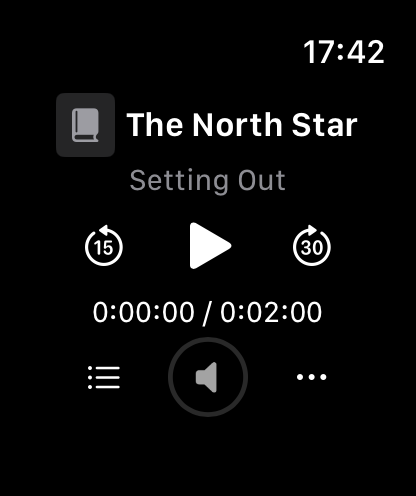
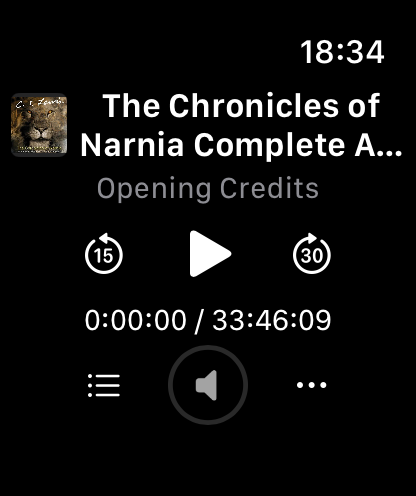
Add gospel About page and Narnia player preview

diff --git a/support/index.html b/support/index.html
@@ -1,3 +1,3 @@
 <!doctype html>
-<html lang="en"><head><meta charset="utf-8"><meta name="viewport" content="width=device-width,initial-scale=1"><title>Support — Wristshelf</title><meta name="description" content="Help with setup, listening, offline downloads and progress in Wristshelf."><link rel="canonical" href="https://wristshelf.fourbees.net/support"><link rel="icon" type="image/png" href="../assets/icon.png"><link rel="stylesheet" href="../assets/site.css"></head>
-<body><a class="skip" href="#content">Skip to content</a><header><a class="brand" href="../"><img src="../assets/icon.png" alt="" width="44" height="44">Wristshelf</a><nav aria-label="Main navigation"><a href="../support/" aria-current="page">Support</a><a href="../privacy/">Privacy</a></nav></header><main id="content"><article class="document"><p class="eyebrow">HERE TO HELP</p><h1>Wristshelf support</h1><p class="lead">Start with the answers below. If you’re still stuck, send a short description and we’ll help you find the next step.</p><div class="contact"><p>Contact support</p><a href="mailto:wristshelf_support@fourbees.net">wristshelf_support@fourbees.net</a><p>Please include your watch model, watchOS and Wristshelf versions, what you expected, and what happened. Never send passwords, tokens, private server addresses or children’s listening details.</p></div><h2>Getting started</h2><details open><summary>What do I need to listen?</summary><p>Apple Watch running watchOS 27 or later, a reachable Audiobookshelf server and your own account on that server. Enter its address, username and password directly on the watch. HTTPS with certificate validation is the default. Your server administrator controls library and download access.</p></details><details><summary>Do I need an iPhone companion app?</summary><p>No. Wristshelf is a standalone watch app. Account setup, library browsing, playback and downloads happen on the watch. Internet access is needed to sign in and acquire audio; already saved audio can play offline.</p></details><details><summary>My server won’t connect.</summary><p>Check the address and your watch’s connection. Confirm that your credentials work with your server and that it is reachable from your current network. If Cloudflare Access protects the server, ask your administrator for its service-authentication setup. Interactive web SSO is not a substitute for the app’s optional service-credential fields.</p></details><h2>Downloads and listening</h2><details><summary>Why does a download say “Waiting for watchOS”?</summary><p>watchOS decides when native background transfers run. A scheduled download may wait for connectivity or system resources. Keep the title queued, check available storage and reconnect. Some Cloudflare policies support only foreground downloads; the app explains when you need to keep Wristshelf open.</p></details><details><summary>How do I pause, resume or remove a download?</summary><p>Open Downloads, select the title and choose Pause Download or Resume Download. Delete Download also removes pending and in-progress work. Saved listening progress is kept. Deleting audio used by the current player stops playback first.</p></details><details><summary>Can I listen offline?</summary><p>Yes, with saved audio. Wait until a download is marked Available offline before relying on the whole title. Streaming-cache portions may also be available, but a partial cache is not a complete offline download.</p></details><details><summary>How do I keep progress across devices?</summary><p>Use the same Audiobookshelf account. Wristshelf saves progress locally and attempts to synchronize when connected. If the watch and server positions conflict, use the app’s explicit position choice. Reconnect before switching devices when possible.</p></details><details><summary>How do I seek without accidental jumps?</summary><p>The main player has skip buttons. Choose Chapters for a chapter jump, or open playback settings to select and confirm a new position. Turn the Digital Crown on the main player to adjust volume.</p></details><details><summary>Does Wristshelf include books or support ebooks?</summary><p>Wristshelf plays audiobooks and podcast episodes from your server. It does not supply content, and this release does not support ebooks.</p></details></article></main><footer><p>Independent software. Your library, your server.</p><p><a href="../support/">Support</a><a href="../privacy/">Privacy</a>© 2026 Christopher Alderman</p></footer></body></html>
+<html lang="en"><head><meta charset="utf-8"><meta name="viewport" content="width=device-width,initial-scale=1"><title>Support — Wristshelf</title><meta name="description" content="Help with setup, listening, offline downloads and progress in Wristshelf."><link rel="canonical" href="https://wristshelf.fourbees.net/support"><link rel="icon" type="image/png" href="../assets/icon.png"><link rel="stylesheet" href="../assets/site.css?v=11"></head>
+<body><a class="skip" href="#content">Skip to content</a><header><a class="brand" href="../"><img src="../assets/icon.png" alt="" width="44" height="44">Wristshelf</a><nav aria-label="Main navigation"><a href="../about/">About</a><a href="../support/" aria-current="page">Support</a><a href="../privacy/">Privacy</a></nav></header><main id="content"><article class="document"><p class="eyebrow">HERE TO HELP</p><h1>Wristshelf support</h1><p class="lead">Start with the answers below. If you’re still stuck, send a short description and we’ll help you find the next step.</p><div class="contact"><p>Contact support</p><a href="mailto:wristshelf_support@fourbees.net">wristshelf_support@fourbees.net</a><p>Please include your watch model, watchOS and Wristshelf versions, what you expected, and what happened. Never send passwords, tokens, private server addresses or children’s listening details.</p></div><h2>Getting started</h2><details open><summary>What do I need to listen?</summary><p>Apple Watch running watchOS 27 or later, a reachable Audiobookshelf server and your own account on that server. Enter its address, username and password directly on the watch. HTTPS with certificate validation is the default. Your server administrator controls library and download access.</p></details><details><summary>Do I need an iPhone companion app?</summary><p>No. Wristshelf is a standalone watch app. Account setup, library browsing, playback and downloads happen on the watch. Internet access is needed to sign in and acquire audio; already saved audio can play offline.</p></details><details><summary>My server won’t connect.</summary><p>Check the address and your watch’s connection. Confirm that your credentials work with your server and that it is reachable from your current network. If Cloudflare Access protects the server, ask your administrator for its service-authentication setup. Interactive web SSO is not a substitute for the app’s optional service-credential fields.</p></details><h2>Downloads and listening</h2><details><summary>Why does a download say “Waiting for watchOS”?</summary><p>watchOS decides when native background transfers run. A scheduled download may wait for connectivity or system resources. Keep the title queued, check available storage and reconnect. Some Cloudflare policies support only foreground downloads; the app explains when you need to keep Wristshelf open.</p></details><details><summary>How do I pause, resume or remove a download?</summary><p>Open Downloads, select the title and choose Pause Download or Resume Download. Delete Download also removes pending and in-progress work. Saved listening progress is kept. Deleting audio used by the current player stops playback first.</p></details><details><summary>Can I listen offline?</summary><p>Yes, with saved audio. Wait until a download is marked Available offline before relying on the whole title. Streaming-cache portions may also be available, but a partial cache is not a complete offline download.</p></details><details><summary>How do I keep progress across devices?</summary><p>Use the same Audiobookshelf account. Wristshelf saves progress locally and attempts to synchronize when connected. If the watch and server positions conflict, use the app’s explicit position choice. Reconnect before switching devices when possible.</p></details><details><summary>How do I seek without accidental jumps?</summary><p>The main player has skip buttons. Choose Chapters for a chapter jump, or open playback settings to select and confirm a new position. Turn the Digital Crown on the main player to adjust volume.</p></details><details><summary>Does Wristshelf include books or support ebooks?</summary><p>Wristshelf plays audiobooks and podcast episodes from your server. It does not supply content, and this release does not support ebooks.</p></details></article></main><footer><p>Independent software. Your library, your server.</p><p><a href="../about/">About</a><a href="../support/">Support</a><a href="../privacy/">Privacy</a>© 2026 Christopher Alderman</p></footer></body></html>

diff --git a/privacy/index.html b/privacy/index.html
@@ -1,3 +1,3 @@
 <!doctype html>
-<html lang="en"><head><meta charset="utf-8"><meta name="viewport" content="width=device-width,initial-scale=1"><title>Privacy — Wristshelf</title><meta name="description" content="How Wristshelf handles your server connection, credentials, audio and listening progress."><link rel="canonical" href="https://wristshelf.fourbees.net/privacy"><link rel="icon" type="image/png" href="../assets/icon.png"><link rel="stylesheet" href="../assets/site.css"></head>
-<body><a class="skip" href="#content">Skip to content</a><header><a class="brand" href="../"><img src="../assets/icon.png" alt="" width="44" height="44">Wristshelf</a><nav aria-label="Main navigation"><a href="../support/">Support</a><a href="../privacy/" aria-current="page">Privacy</a></nav></header><main id="content"><article class="document"><p class="eyebrow">LAST UPDATED SEPTEMBER 22, 2026</p><h1>Your library.<br>Your privacy.</h1><p>Wristshelf connects directly to the Audiobookshelf server you configure. It has no developer-operated account service, advertising, analytics or tracking SDKs.</p><h2>Connections and credentials</h2><p>Your server receives sign-in requests, media requests and listening progress. If you enable Cloudflare Access service authentication, the configured service credentials accompany requests to that origin. The server operator and any access provider control their own logs and retention. Ask your server administrator about their privacy practices.</p><p>Access and refresh tokens and optional Cloudflare credentials are stored in the watch&#x27;s Keychain. For compatible background downloads, watchOS also manages the authenticated transfer request and a scoped Cloudflare cookie when needed. Custom Cloudflare service credentials are confined to the app&#x27;s guarded foreground requests; they are not sent as native background headers. Password input is cleared after sign-in. The server address, account identity, library metadata, cover art, saved audio and listening history are stored in the app&#x27;s local account directory. They are not sent to a Wristshelf-operated service.</p><p>HTTPS and certificate validation are the defaults. Choosing HTTP transmits requests without transport encryption. The optional certificate exception disables server-identity validation for the configured origin.</p><h2>Listening and storage</h2><p>Playback checkpoints and listening totals are sent to your configured server to support resume across devices. Offline changes remain locally until synchronization can be attempted. Download and streaming-cache data remain on the watch. Storage capacity is displayed locally and is not uploaded.</p><p>Deleting a download removes its saved audio and keeps listening progress. Confirmed sign-out removes that account&#x27;s local content and saved credentials, including any unsent progress after the warning shown in the app. It does not delete the Audiobookshelf account or progress already stored on the server.</p><h2>Children and curated libraries</h2><p>The app uses the signed-in Audiobookshelf user&#x27;s permissions. A parent or administrator manages access on that server. Offline devices cannot discover new permission changes until they reconnect and receive authoritative catalog data.</p><h2>Support</h2><p>Do not include passwords, tokens, private server addresses or children&#x27;s listening details in public bug reports. Submit a sanitized issue through the repository where you obtained Wristshelf. Operating-system diagnostics and distribution services are governed separately by their providers.</p><p>This policy describes the source version in this repository. Distributors modifying the app or adding services must update its policy and disclosures.</p><h2>This website and support email</h2><p>This static website has no analytics, advertising, tracking scripts or cookies set by Wristshelf. The hosting provider may process ordinary request information, such as IP addresses, to deliver the site and operate its service. Sending an email shares your email address and message with support and its email provider. Send only the information needed to resolve your issue.</p><p>For privacy questions, contact <a href="mailto:wristshelf_support@fourbees.net">wristshelf_support@fourbees.net</a>.</p></article></main><footer><p>Independent software. Your library, your server.</p><p><a href="../support/">Support</a><a href="../privacy/">Privacy</a>© 2026 Christopher Alderman</p></footer></body></html>
+<html lang="en"><head><meta charset="utf-8"><meta name="viewport" content="width=device-width,initial-scale=1"><title>Privacy — Wristshelf</title><meta name="description" content="How Wristshelf handles your server connection, credentials, audio and listening progress."><link rel="canonical" href="https://wristshelf.fourbees.net/privacy"><link rel="icon" type="image/png" href="../assets/icon.png"><link rel="stylesheet" href="../assets/site.css?v=11"></head>
+<body><a class="skip" href="#content">Skip to content</a><header><a class="brand" href="../"><img src="../assets/icon.png" alt="" width="44" height="44">Wristshelf</a><nav aria-label="Main navigation"><a href="../about/">About</a><a href="../support/">Support</a><a href="../privacy/" aria-current="page">Privacy</a></nav></header><main id="content"><article class="document"><p class="eyebrow">LAST UPDATED SEPTEMBER 22, 2026</p><h1>Your library.<br>Your privacy.</h1><p>Wristshelf connects directly to the Audiobookshelf server you configure. It has no developer-operated account service, advertising, analytics or tracking SDKs.</p><h2>Connections and credentials</h2><p>Your server receives sign-in requests, media requests and listening progress. If you enable Cloudflare Access service authentication, the configured service credentials accompany requests to that origin. The server operator and any access provider control their own logs and retention. Ask your server administrator about their privacy practices.</p><p>Access and refresh tokens and optional Cloudflare credentials are stored in the watch&#x27;s Keychain. For compatible background downloads, watchOS also manages the authenticated transfer request and a scoped Cloudflare cookie when needed. Custom Cloudflare service credentials are confined to the app&#x27;s guarded foreground requests; they are not sent as native background headers. Password input is cleared after sign-in. The server address, account identity, library metadata, cover art, saved audio and listening history are stored in the app&#x27;s local account directory. They are not sent to a Wristshelf-operated service.</p><p>HTTPS and certificate validation are the defaults. Choosing HTTP transmits requests without transport encryption. The optional certificate exception disables server-identity validation for the configured origin.</p><h2>Listening and storage</h2><p>Playback checkpoints and listening totals are sent to your configured server to support resume across devices. Offline changes remain locally until synchronization can be attempted. Download and streaming-cache data remain on the watch. Storage capacity is displayed locally and is not uploaded.</p><p>Deleting a download removes its saved audio and keeps listening progress. Confirmed sign-out removes that account&#x27;s local content and saved credentials, including any unsent progress after the warning shown in the app. It does not delete the Audiobookshelf account or progress already stored on the server.</p><h2>Children and curated libraries</h2><p>The app uses the signed-in Audiobookshelf user&#x27;s permissions. A parent or administrator manages access on that server. Offline devices cannot discover new permission changes until they reconnect and receive authoritative catalog data.</p><h2>Support</h2><p>Do not include passwords, tokens, private server addresses or children&#x27;s listening details in public bug reports. Submit a sanitized issue through the repository where you obtained Wristshelf. Operating-system diagnostics and distribution services are governed separately by their providers.</p><p>This policy describes the source version in this repository. Distributors modifying the app or adding services must update its policy and disclosures.</p><h2>This website and support email</h2><p>This static website has no analytics, advertising, tracking scripts or cookies set by Wristshelf. The hosting provider may process ordinary request information, such as IP addresses, to deliver the site and operate its service. Sending an email shares your email address and message with support and its email provider. Send only the information needed to resolve your issue.</p><p>For privacy questions, contact <a href="mailto:wristshelf_support@fourbees.net">wristshelf_support@fourbees.net</a>.</p></article></main><footer><p>Independent software. Your library, your server.</p><p><a href="../about/">About</a><a href="../support/">Support</a><a href="../privacy/">Privacy</a>© 2026 Christopher Alderman</p></footer></body></html>

diff --git a/assets/site.css b/assets/site.css
@@ -1,1 +1,1 @@
-*{box-sizing:border-box}html{color-scheme:light;scroll-behavior:smooth}body{margin:0;background:#f6f4ee;color:#202625;font-family:-apple-system,BlinkMacSystemFont,"Segoe UI",sans-serif;font-size:17px;line-height:1.65}a{color:inherit;text-underline-offset:4px}a:hover{color:#825405}a:focus-visible,summary:focus-visible{outline:3px solid #a96a00;outline-offset:5px}header,main,footer{max-width:1100px;margin:auto;padding:0 32px}header{display:flex;align-items:center;justify-content:space-between;gap:24px;padding-top:24px;padding-bottom:24px;border-bottom:1px solid #dddcd3}.brand{display:flex;align-items:center;gap:12px;font-size:21px;font-weight:750;text-decoration:none;letter-spacing:-.6px}.brand img{width:44px;height:44px;border-radius:12px}nav{display:flex;gap:26px;font-size:15px}nav a{text-decoration:none}nav a[aria-current=page]{text-decoration:underline}.skip{position:absolute;left:16px;top:-100px;background:white;padding:10px;z-index:3}.skip:focus{top:12px}.hero{display:grid;grid-template-columns:1.3fr 1fr;gap:64px;align-items:center;padding:76px 0 64px}.eyebrow{font-size:12px;letter-spacing:2px;text-transform:uppercase;font-weight:750;color:#696e67}h1{font-size:clamp(42px,6vw,70px);line-height:1.05;letter-spacing:-2.8px;margin:22px 0}h2{font-size:26px;line-height:1.25;letter-spacing:-.6px}h3{font-size:19px;line-height:1.4}.lead{font-size:21px;line-height:1.55;color:#535d55;max-width:560px}.pill{display:inline-block;border:1px solid #d5d2c7;padding:5px 12px;border-radius:24px;font-size:12px;letter-spacing:.2px}.actions{display:flex;gap:16px;align-items:center;flex-wrap:wrap;margin-top:30px}.button{display:inline-block;background:#24372f;color:#fff;padding:12px 23px;border-radius:10px;font-size:15px;font-weight:650;text-decoration:none}.button:hover{background:#354e42;color:white}.secondary{font-size:15px}.caption{font-size:13px;color:#74786f}.preview{text-align:center;background:#e9e9df;border-radius:36px;padding:34px 20px 18px}.watch{margin:auto;max-width:252px;padding:12px;background:#181c1b;border:3px solid #3b4240;border-radius:61px;box-shadow:0 18px 32px #26392d20}.watch img{display:block;width:100%;height:auto;border-radius:47px}.features{display:grid;grid-template-columns:repeat(3,1fr);gap:32px;border-top:1px solid #d9dacf;padding:34px 0 45px}.features p{color:#586258;font-size:15px}.number{color:#8c6926;font-size:13px;font-weight:650}.requirements{padding:28px 30px;background:#ecebe3;border-radius:18px;margin-bottom:64px}.requirements h2{margin:0 0 10px;font-size:22px}.requirements p{margin:0;color:#566055;font-size:15px}.document{max-width:740px;padding:60px 0 72px}.document h1{font-size:48px;letter-spacing:-1.5px}.document h2{margin-top:34px}.document p,.document li{color:#4e594f}.contact{padding:24px;background:#e8e9dc;border-radius:18px;margin:28px 0;overflow-wrap:anywhere}.contact p{margin:7px 0}.contact a{font-weight:700;color:#273f31}details{border-bottom:1px solid #d7d9cd;padding:18px 0}summary{cursor:pointer;font-weight:650;line-height:1.4}details p{font-size:16px}footer{border-top:1px solid #d9dacf;padding-top:26px;padding-bottom:30px;display:flex;justify-content:space-between;gap:24px;flex-wrap:wrap;font-size:13px;color:#657064}footer p{margin:0}footer a{margin-right:18px}code{font-size:14px} @media(max-width:680px){header,main,footer{padding-left:22px;padding-right:22px}header{gap:16px}.brand{font-size:18px;gap:8px}.brand img{width:36px;height:36px}nav{gap:16px;font-size:14px}.hero{grid-template-columns:1fr;gap:30px;padding:42px 0}.hero h1{max-width:480px;letter-spacing:-1.8px}.lead{font-size:19px}.preview{padding-top:28px}.watch{max-width:226px}.features{grid-template-columns:1fr;gap:10px;padding:28px 0}.features h2{font-size:23px;margin:8px 0}.features p{margin-top:10px}.requirements{margin-bottom:42px;padding:23px}.document{padding:36px 0 50px}.document h1{font-size:40px}.contact{padding:20px}footer{display:block}footer p+p{margin-top:12px}}@media(prefers-reduced-motion:reduce){html{scroll-behavior:auto}}
+*{box-sizing:border-box}html{color-scheme:light;scroll-behavior:smooth}body{margin:0;background:#f6f4ee;color:#202625;font-family:-apple-system,BlinkMacSystemFont,"Segoe UI",sans-serif;font-size:17px;line-height:1.65}a{color:inherit;text-underline-offset:4px}a:hover{color:#825405}a:focus-visible,summary:focus-visible{outline:3px solid #a96a00;outline-offset:5px}header,main,footer{max-width:1100px;margin:auto;padding:0 32px}header{display:flex;align-items:center;justify-content:space-between;gap:24px;padding-top:24px;padding-bottom:24px;border-bottom:1px solid #dddcd3}.brand{display:flex;align-items:center;gap:12px;font-size:21px;font-weight:750;text-decoration:none;letter-spacing:-.6px}.brand img{width:44px;height:44px;border-radius:12px}nav{display:flex;gap:26px;font-size:15px}nav a{text-decoration:none}nav a[aria-current=page]{text-decoration:underline}.skip{position:absolute;left:16px;top:-100px;background:white;padding:10px;z-index:3}.skip:focus{top:12px}.hero{display:grid;grid-template-columns:1.3fr 1fr;gap:64px;align-items:center;padding:76px 0 64px}.eyebrow{font-size:12px;letter-spacing:2px;text-transform:uppercase;font-weight:750;color:#696e67}h1{font-size:clamp(42px,6vw,70px);line-height:1.05;letter-spacing:-2.8px;margin:22px 0}h2{font-size:26px;line-height:1.25;letter-spacing:-.6px}h3{font-size:19px;line-height:1.4}.lead{font-size:21px;line-height:1.55;color:#535d55;max-width:560px}.pill{display:inline-block;border:1px solid #d5d2c7;padding:5px 12px;border-radius:24px;font-size:12px;letter-spacing:.2px}.actions{display:flex;gap:16px;align-items:center;flex-wrap:wrap;margin-top:30px}.button{display:inline-block;background:#24372f;color:#fff;padding:12px 23px;border-radius:10px;font-size:15px;font-weight:650;text-decoration:none}.button:hover{background:#354e42;color:white}.secondary{font-size:15px}.caption{font-size:13px;color:#74786f}.preview{text-align:center;background:#e9e9df;border-radius:36px;padding:34px 20px 18px}.watch{margin:auto;max-width:252px;padding:12px;background:#181c1b;border:3px solid #3b4240;border-radius:61px;box-shadow:0 18px 32px #26392d20}.watch img{display:block;width:100%;height:auto;border-radius:47px}.features{display:grid;grid-template-columns:repeat(3,1fr);gap:32px;border-top:1px solid #d9dacf;padding:34px 0 45px}.features p{color:#586258;font-size:15px}.number{color:#8c6926;font-size:13px;font-weight:650}.requirements{padding:28px 30px;background:#ecebe3;border-radius:18px;margin-bottom:64px}.requirements h2{margin:0 0 10px;font-size:22px}.requirements p{margin:0;color:#566055;font-size:15px}.document{max-width:740px;padding:60px 0 72px}.document h1{font-size:48px;letter-spacing:-1.5px}.document h2{margin-top:34px}.document p,.document li{color:#4e594f}.contact{padding:24px;background:#e8e9dc;border-radius:18px;margin:28px 0;overflow-wrap:anywhere}.contact p{margin:7px 0}.contact a{font-weight:700;color:#273f31}details{border-bottom:1px solid #d7d9cd;padding:18px 0}summary{cursor:pointer;font-weight:650;line-height:1.4}details p{font-size:16px}footer{border-top:1px solid #d9dacf;padding-top:26px;padding-bottom:30px;display:flex;justify-content:space-between;gap:24px;flex-wrap:wrap;font-size:13px;color:#657064}footer p{margin:0}footer a{margin-right:18px}code{font-size:14px} @media(max-width:680px){header,main,footer{padding-left:22px;padding-right:22px}header{gap:16px;flex-wrap:wrap}.brand{font-size:18px;gap:8px}.brand img{width:36px;height:36px}nav{gap:16px;font-size:14px}.hero{grid-template-columns:1fr;gap:30px;padding:42px 0}.hero h1{max-width:480px;letter-spacing:-1.8px}.lead{font-size:19px}.preview{padding-top:28px}.watch{max-width:226px}.features{grid-template-columns:1fr;gap:10px;padding:28px 0}.features h2{font-size:23px;margin:8px 0}.features p{margin-top:10px}.requirements{margin-bottom:42px;padding:23px}.document{padding:36px 0 50px}.document h1{font-size:40px}.contact{padding:20px}footer{display:block}footer p+p{margin-top:12px}}@media(prefers-reduced-motion:reduce){html{scroll-behavior:auto}}

diff --git a/index.html b/index.html
@@ -1,3 +1,3 @@
 <!doctype html>
-<html lang="en"><head><meta charset="utf-8"><meta name="viewport" content="width=device-width,initial-scale=1"><title>Wristshelf — Your library, on your wrist</title><meta name="description" content="A standalone Apple Watch player for your Audiobookshelf audiobooks and podcasts."><link rel="canonical" href="https://wristshelf.fourbees.net/"><link rel="icon" type="image/png" href="./assets/icon.png"><link rel="stylesheet" href="./assets/site.css"></head>
-<body><a class="skip" href="#content">Skip to content</a><header><a class="brand" href="./"><img src="./assets/icon.png" alt="" width="44" height="44">Wristshelf</a><nav aria-label="Main navigation"><a href="./support/">Support</a><a href="./privacy/">Privacy</a></nav></header><main id="content"><section class="hero"><div><span class="pill">For Apple Watch · watchOS 27+</span><h1>Your library.<br>On your wrist.</h1><p class="lead">Bring your Audiobookshelf books and podcasts along. Stream a chapter, save a whole story, and keep your place wherever you listen.</p><div class="actions"><a class="button" href="support/">Get support</a><a class="secondary" href="#requirements">What you’ll need</a></div><p class="caption">App Store release in preparation.</p></div><div class="preview"><div class="watch"><img src="assets/player.png" alt="Wristshelf player with large skip and play controls, chapter selection, volume and playback settings" width="416" height="496"></div><p class="caption">A look inside · demo library</p></div></section><section class="features" aria-label="Features"><article><span class="number">01 / INDEPENDENT</span><h2>Just your watch.</h2><p>Sign in on Apple Watch and browse the libraries your account can access. No iPhone companion app required.</p></article><article><span class="number">02 / READY TO GO</span><h2>Stream. Save. Listen.</h2><p>Start without a full download, or save books and podcast episodes for offline listening. Pause, resume and manage downloads from your wrist.</p></article><article><span class="number">03 / STAY IN THE STORY</span><h2>Keep your place.</h2><p>Use chapters, skip controls, adjustable speed and a sleep timer. Progress stays on your watch and syncs to your server when connected.</p></article></section><section class="requirements" id="requirements"><h2>A player for your own library.</h2><p>You’ll need Apple Watch with watchOS 27 or later and an <a href="https://www.audiobookshelf.org/">Audiobookshelf</a> server and account. Wristshelf doesn’t provide media or a hosted server. Audiobookshelf 2.36.1 is the compatibility baseline. Ebooks are not supported. Wristshelf is independent and is not endorsed by Audiobookshelf.</p></section></main><footer><p>Independent software. Your library, your server.</p><p><a href="./support/">Support</a><a href="./privacy/">Privacy</a>© 2026 Christopher Alderman</p></footer></body></html>
+<html lang="en"><head><meta charset="utf-8"><meta name="viewport" content="width=device-width,initial-scale=1"><title>Wristshelf — Your library, on your wrist</title><meta name="description" content="A standalone Apple Watch player for your Audiobookshelf audiobooks and podcasts."><link rel="canonical" href="https://wristshelf.fourbees.net/"><link rel="icon" type="image/png" href="./assets/icon.png"><link rel="stylesheet" href="./assets/site.css?v=11"></head>
+<body><a class="skip" href="#content">Skip to content</a><header><a class="brand" href="./"><img src="./assets/icon.png" alt="" width="44" height="44">Wristshelf</a><nav aria-label="Main navigation"><a href="./about/">About</a><a href="./support/">Support</a><a href="./privacy/">Privacy</a></nav></header><main id="content"><section class="hero"><div><span class="pill">For Apple Watch · watchOS 27+</span><h1>Your library.<br>On your wrist.</h1><p class="lead">Bring your Audiobookshelf books and podcasts along. Stream a chapter, save a whole story, and keep your place wherever you listen.</p><div class="actions"><a class="button" href="support/">Get support</a><a class="secondary" href="#requirements">What you’ll need</a></div><p class="caption">App Store release in preparation.</p></div><div class="preview"><div class="watch"><img src="assets/player.png?v=11" alt="Wristshelf player with large skip and play controls, chapter selection, volume and playback settings" width="416" height="496"></div><p class="caption">Example library · media not included</p></div></section><section class="features" aria-label="Features"><article><span class="number">01 / INDEPENDENT</span><h2>Just your watch.</h2><p>Sign in on Apple Watch and browse the libraries your account can access. No iPhone companion app required.</p></article><article><span class="number">02 / READY TO GO</span><h2>Stream. Save. Listen.</h2><p>Start without a full download, or save books and podcast episodes for offline listening. Pause, resume and manage downloads from your wrist.</p></article><article><span class="number">03 / STAY IN THE STORY</span><h2>Keep your place.</h2><p>Use chapters, skip controls, adjustable speed and a sleep timer. Progress stays on your watch and syncs to your server when connected.</p></article></section><section class="requirements" id="requirements"><h2>A player for your own library.</h2><p>You’ll need Apple Watch with watchOS 27 or later and an <a href="https://www.audiobookshelf.org/">Audiobookshelf</a> server and account. Wristshelf doesn’t provide media or a hosted server. Audiobookshelf 2.36.1 is the compatibility baseline. Ebooks are not supported. Wristshelf is independent and is not endorsed by Audiobookshelf. Example media is not included; cover artwork belongs to its respective owners.</p></section></main><footer><p>Independent software. Your library, your server.</p><p><a href="./about/">About</a><a href="./support/">Support</a><a href="./privacy/">Privacy</a>© 2026 Christopher Alderman</p></footer></body></html>

diff --git a/about/index.html b/about/index.html
@@ -1,0 +1,16 @@
+<!doctype html>
+<html lang="en">
+<head><meta charset="utf-8"><meta name="viewport" content="width=device-width,initial-scale=1">
+<title>About — Wristshelf</title><meta name="description" content="The gospel of Jesus Christ, shared in Wristshelf.">
+<link rel="canonical" href="https://wristshelf.fourbees.net/about/">
+<link rel="icon" type="image/png" href="../assets/icon.png"><link rel="stylesheet" href="../assets/site.css?v=11"></head>
+<body><a class="skip" href="#content">Skip to content</a>
+<header><a class="brand" href="../"><img src="../assets/icon.png" alt="" width="44" height="44">Wristshelf</a>
+<nav aria-label="Main navigation"><a href="../about/" aria-current="page">About</a><a href="../support/">Support</a><a href="../privacy/">Privacy</a></nav></header>
+<main id="content"><article class="document"><p class="eyebrow">ABOUT WRISTSHELF</p><h1>The gospel</h1>
+<p>Jesus Christ died for our sins and rose again.</p>
+<p>Salvation is God’s gift of grace, received through faith—not something we earn.</p>
+<p>Through Jesus, we are invited to turn to God, receive forgiveness, and walk in new life.</p>
+</article></main>
+<footer><p>Independent software. Your library, your server.</p><p><a href="../about/">About</a><a href="../support/">Support</a><a href="../privacy/">Privacy</a>© 2026 Christopher Alderman</p></footer>
+</body></html>

diff --git a/README.md b/README.md
@@ -5,3 +5,5 @@ Static public information, support and privacy pages for Wristshelf, a standalon
 No application source, server credentials or private test data are included. Serve this directory as static files; GitHub Pages uses the main branch root. Custom domain: wristshelf.fourbees.net.
 
 Original artwork and site content are provided under the MIT license.
+
+The About page shares a short Christian gospel message. Example media visible in the player screenshot is not included with Wristshelf. Narnia cover artwork belongs to its respective owners and is excluded from the MIT license; its display implies no affiliation or endorsement.
